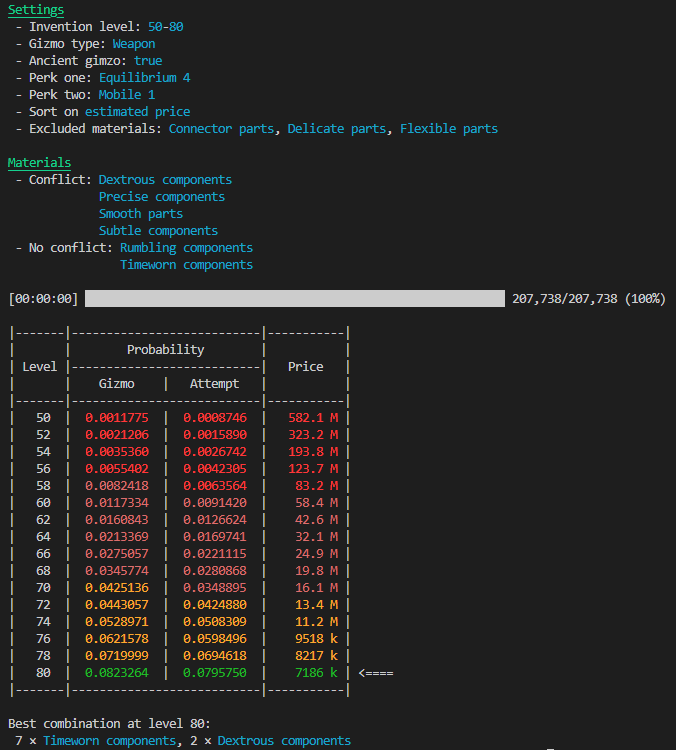
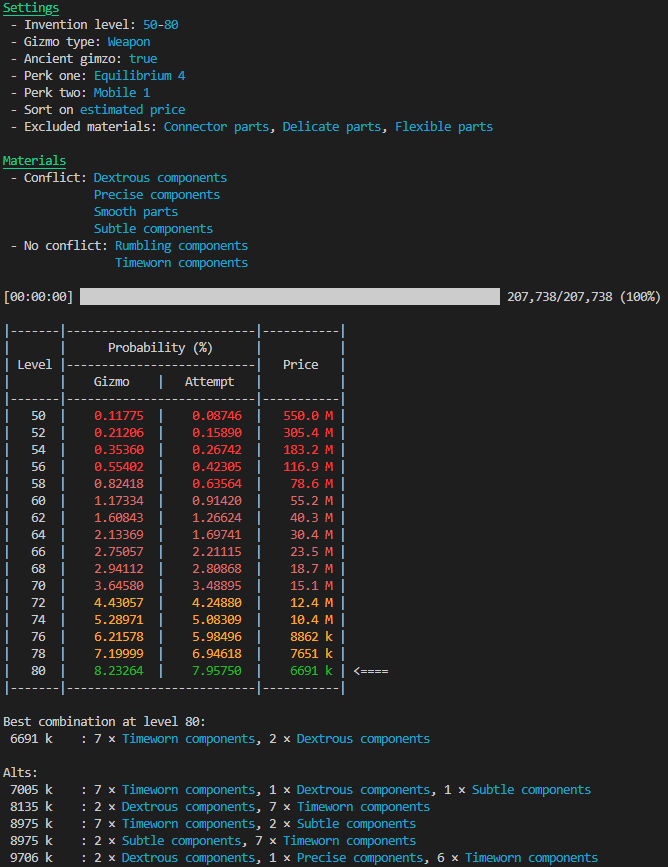
Update readme

Changed region(s): [[0.0, 0.0, 0.988, 1.0], [0.6886, 0.8893, 0.8982, 0.92]]

diff --git a/README.md b/README.md
@@ -1,14 +1,70 @@
 Finds the optimal material combination and invention level for a given set of perks.
 
-Use `./perk_solver --help` to display the help text. Or `./perk_solver.exe --help` on windows.
+Use `perk_solver --help` to display the help text.
+
+## Options
+Usage: `perk_solver [OPTIONS] --type <GIZMO_TYPE> --level <INVENTION_LEVEL> <COMMAND>`
+
+| Command          | Description                                                    |
+|------------------|----------------------------------------------------------------|
+| `gizmo`          | Find the optimal material combination of a given gizmo.        |
+| `material-input` | Show the gizmo probabilities for a given material combination. |
+
+Options:
+| Short | Long                        | Description                                                | Required |
+|:-----:|-----------------------------|------------------------------------------------------------|:--------:|
+| `-t`  | `--type <GIZMO TYPE>`       | Possible values: `weapon`, `w`, `armour`, `a`, `tool`, `t` |    Yes   |
+| `-l`  | `--level <INVENTION LEVEL>` | Use two values separated by a comma to search in a range.  |    Yes   |
+| `-a`  | `--ancient`                 | For ancient gizmos                                         |    No    |
+
+### Gizmo command
+Usage: `perk_solver.exe --type <GIZMO_TYPE> --level <INVENTION_LEVEL> gizmo [OPTIONS] <PERK> [RANK] [PERK_TWO] [RANK_TWO]`
+
+| Argument     | Description                                                                                                                                               | Required |
+|--------------|-----------------------------------------------------------------------------------------------------------------------------------------------------------|:--------:|
+| `<PERK>`     | Perk to look for. Not case sensitive. use `"` quotes if it contains spaces.                                                                               |    Yes   |
+| `[RANK]`     | Rank of the first perk. Use `1` for binary perks like mobile [default: `1`]                                                                               |    No    |
+| `[PERK TWO]` | Second perk in the gizmo. Use `any` if you don't care what the second perk is. Leaving this field empty or using the string `empty` means no second perk. |    No    |
+| `[RANK TWO]` | Rank of the second perk [default: `1`]                                                                                                                    |    No    |
+
+Options:
+| Short | Long                        | Description                                                                                                                                                                                                                 | Required |
+|:-----:|-----------------------------|-----------------------------------------------------------------------------------------------------------------------------------------------------------------------------------------------------------------------------|:--------:|
+|  `-f` | `--fuzzy`                   | Use this if you don't care what the second perk is. Is set automatically is second perk is `any`.                                                                                                                           |    No    |
+|  `-e` | `--exclude <EXCLUDE>`       | Comma separated list of material values to exclude. Uses basic substring matching. Put `"` quotes around the entire list if it contains spaces.                                                                             |    No    |
+|  `-s` | `--sort-type <SORT TYPE>`   | Sort the result on probability per consumed gizmo, probability per attempt, or on estimated price [default: `price`] [possible values: `gizmo`, `attempt`, `price`]                                                         |    No    |
+|  `-A` | `--alt-count <ALT COUNT>`   | Amount of alternative combinations to show (second best, third best, ...) [default: `0`]                                                                                                                                    |    No    |
+|       | `--out-file <OUT FILE>`     | Output file name. Set to `false` to disable output [default: `out.csv`]                                                                                                                                                     |    No    |
+|       | `--price-file <PRICE FILE>` | Prices file name. If the file already exist prices are loaded form the file; if not, they are loaded from the wiki. Set to `false` to disable. When disabled prices are always loaded from the wiki [default: `prices.txt`] |    No    |
+
+### Material intput command
+Usage: `perk_solver.exe --type <GIZMO_TYPE> --level <INVENTION_LEVEL> material-input <MATS>...`
+
+| Argument | Description                                                                                                                        | Required |
+|----------|------------------------------------------------------------------------------------------------------------------------------------|:--------:|
+| `<MATS>` | Comma separated list of materials. Not case sensitive. Shorter names are accepted (e.g. `precise` instead of `Precise components`) |    Yes   |
+
+Options:
+| Short | Long                        | Description                                                | Required |
+|:-----:|-----------------------------|------------------------------------------------------------|:--------:|
+| `-t`  | `--type <GIZMO TYPE>`       | Possible values: `weapon`, `w`, `armour`, `a`, `tool`, `t` |    Yes   |
+| `-l`  | `--level <INVENTION LEVEL>` | Single value.                                              |    Yes   |
+| `-a`  | `--ancient`                 | For ancient gizmos                                         |    No    |
 
 ## Example
 ```sh
-$ ./perk_solver -t weapon -l 1,137 -a gizmo equilibrium 4 mobile -e connector,delicate,flexible
+$ perk_solver -t weapon -l 50,80 -a gizmo equilibrium 4 mobile -e connector,delicate,flexible -A 5
 ```
 ![](./images/Example_output.png)
+
+## What are conflict materials
+Conflict materials are materials that can generate perks ranks with an equal cost value as one of the wanted perk ranks.
+This matters as equal cost values can cause unstable sorting results so for these material combinations the order
+of the materials might matter whereas gizmos made entirely from non-conflict materials are always position independent.
+The result is that the amount of conflict materials has a greater impact in the total number of combinations to check.
+So if the search takes too long it is more effective to exclude conflict materials.
 
 ## Build from source
 * Clone this repo `git clone https://github.com/CephHunter/Runescape-perk-solver.git`
 * Make sure [Rust](https://www.rust-lang.org/) is installed
-* Build with `./build.sh` or `./build.bat`
+* Build with `build.sh` or `build.bat`
